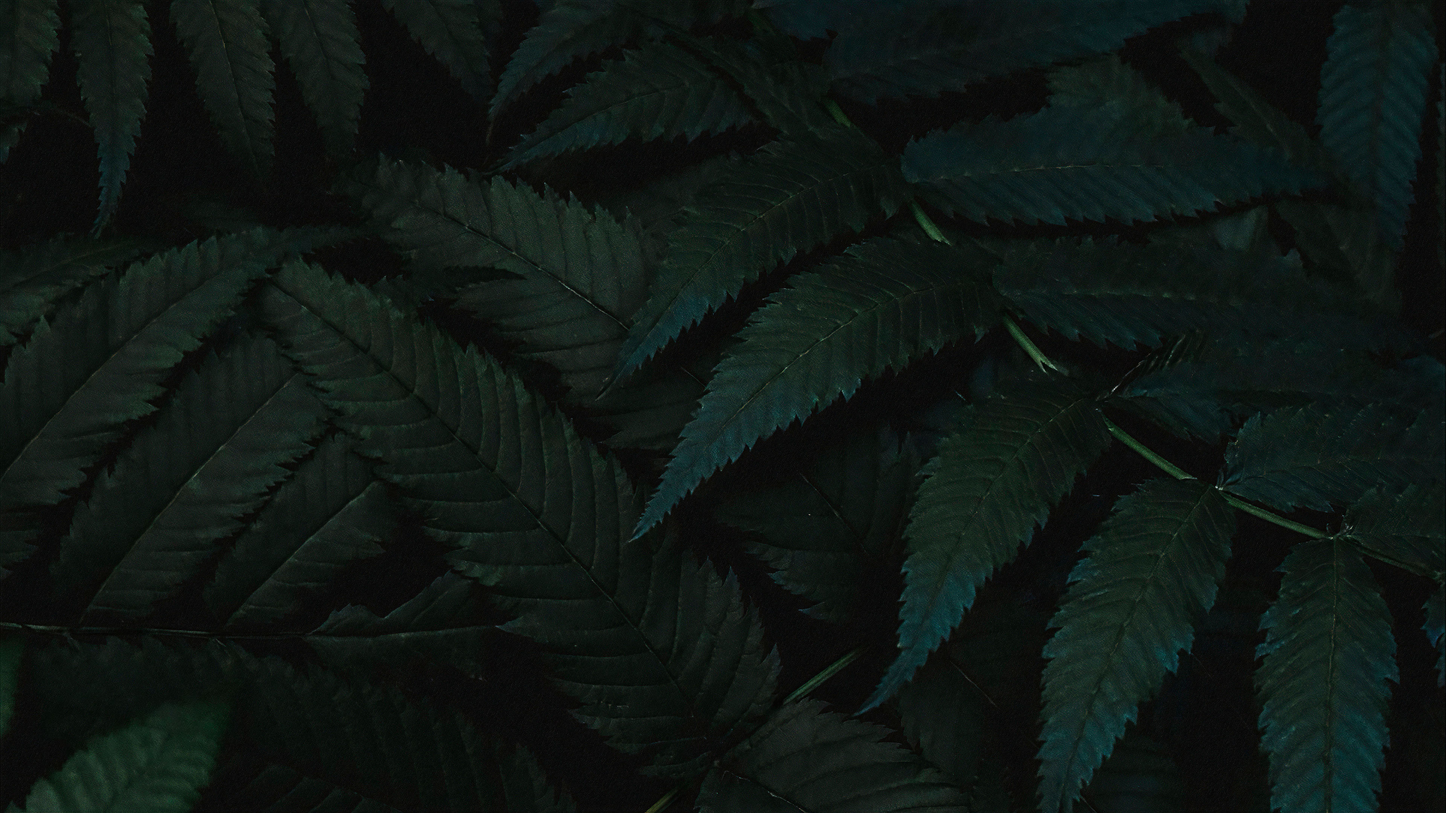
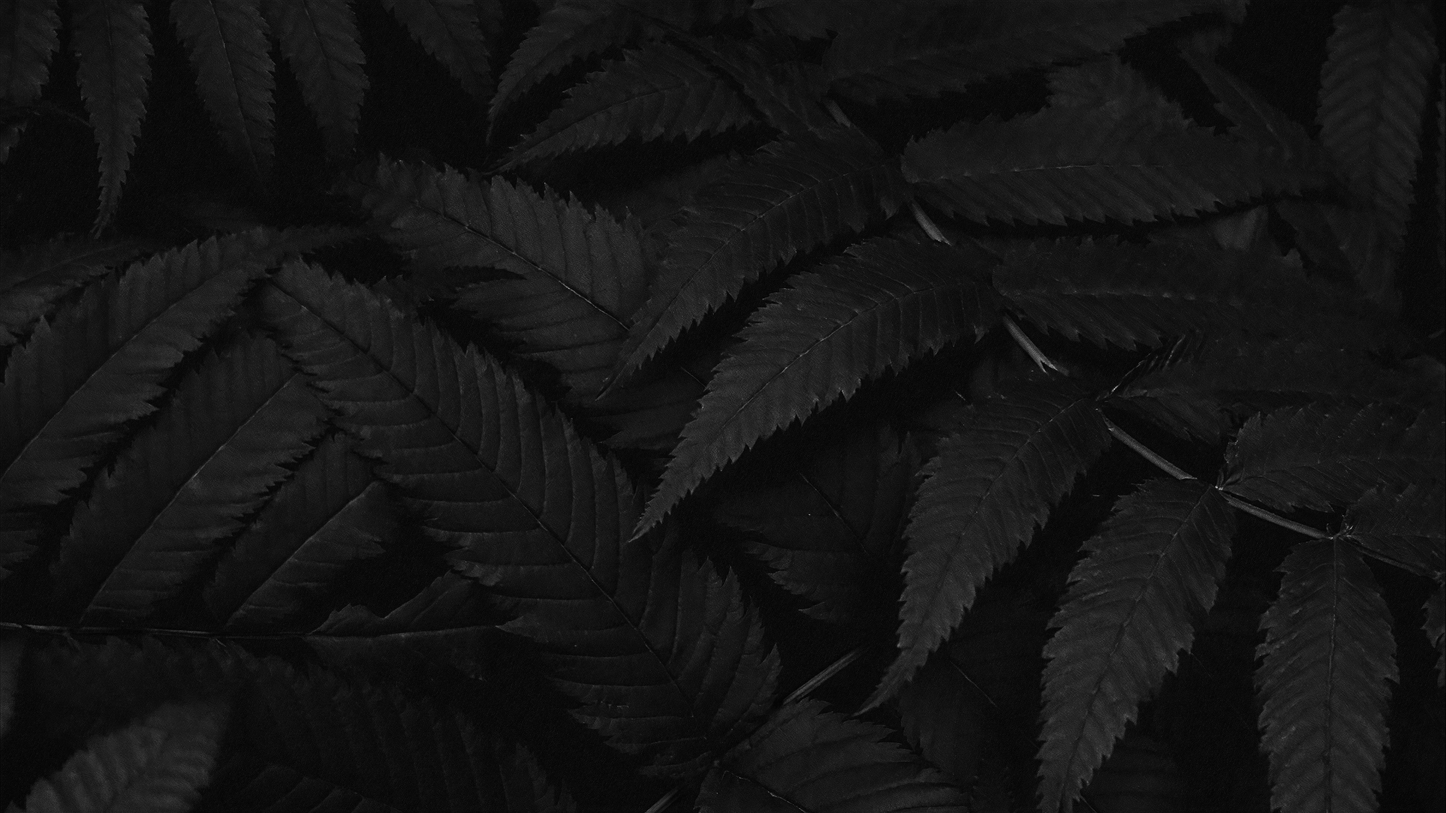
Fixing background

diff --git a/style.css b/style.css
@@ -9,7 +9,7 @@
 }
 
 body {
-    /* background-image: url("content/plants-background.jpg"); */
+    background-image: url("content/plants-background.jpg");
     min-height: 100vh;
     background-position: center;
     background-repeat: no-repeat;
